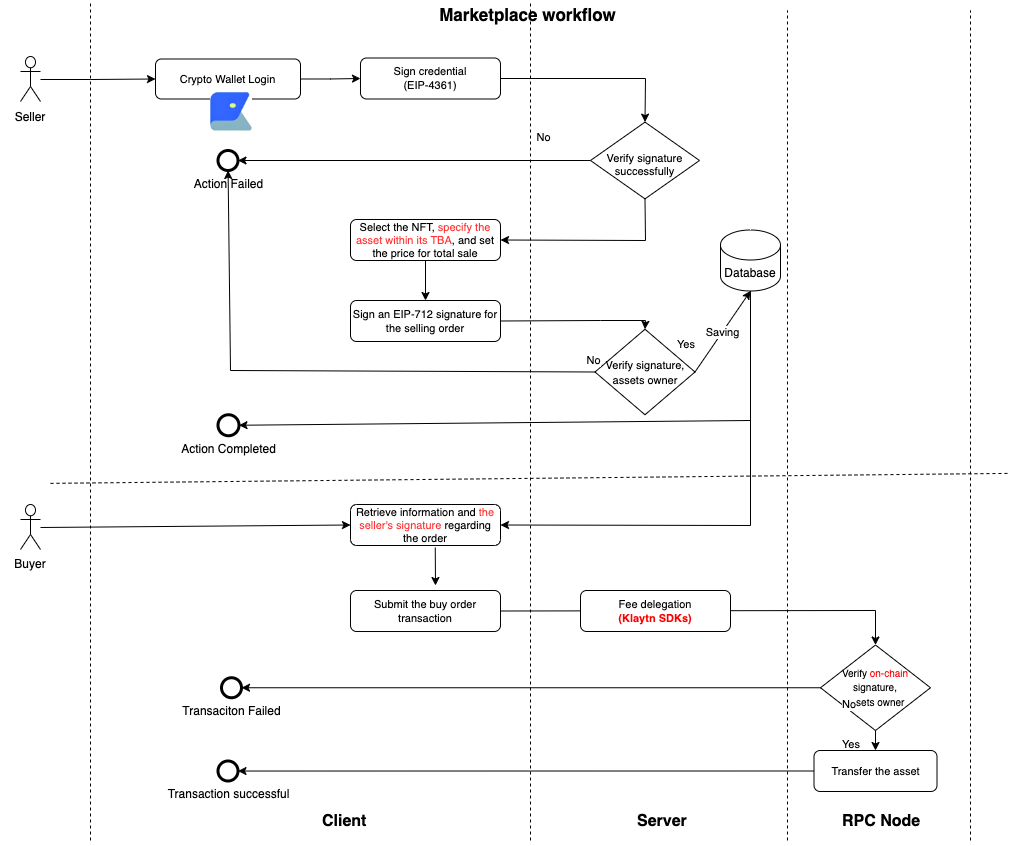
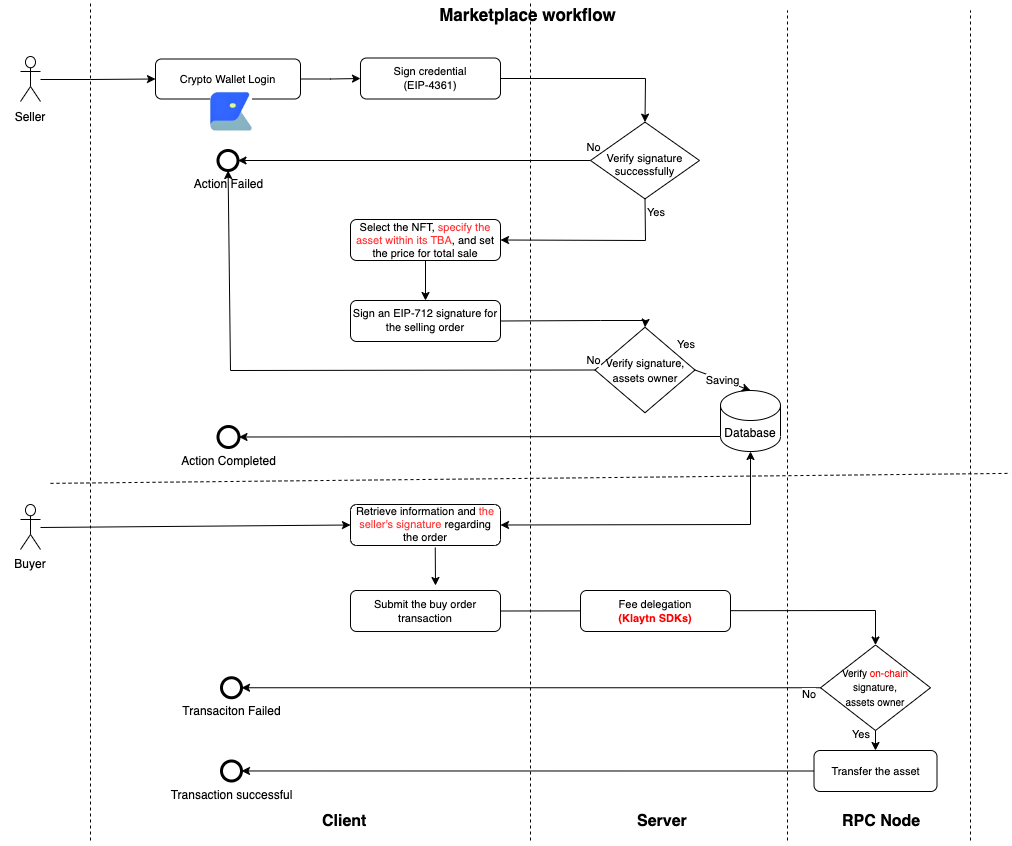
docs: change marketplace workflows, add offering workflows

diff --git a/README.md b/README.md
@@ -3,3 +3,5 @@
 **THIS IS EXPERIMENTAL, UNAUDITED CODE. USE AT YOUR OWN RISK**
 
 ## Marketplace workflows: ![Alt Text](images/marketplace.png)
+
+## Offering workflows: ![Alt Text](images/offering.png)
